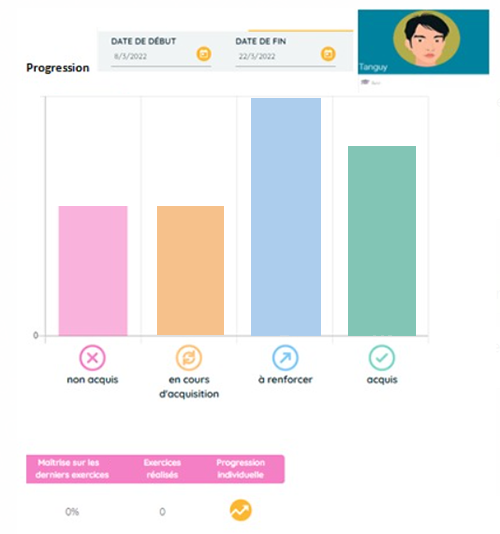
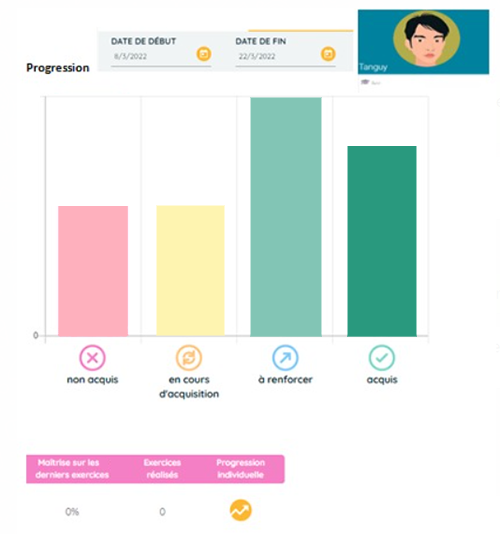
maj academy

diff --git a/templates/account/detail_student_all_views.html b/templates/account/detail_student_all_views.html
@@ -9,22 +9,12 @@
     <script>
         require(['script/ajax-group']);
     </script>
-
- 
-
 {% endblock %}
 
- 
-
-
-
-
- 
-                 
+            
 
 {% block datae %} 
 <style>
-
 .table  > tr {
     min-width:70%
 }
@@ -74,7 +64,8 @@
                     <td> 
                         Durée totale  <span class="pull-right">{{ std.duration|time_done  }}</span> 
                     </td>
-                </tr>  
+                </tr> 
+                {% if not request.user.is_in_academy %} 
                 <tr>
                     <td>
                         Tâches à rendre <span class="pull-right">{{ std.nb  }}</span>
@@ -88,7 +79,8 @@
                     <td> 
                         Tâches remises en retard <span class="pull-right">{% if std.late  > 0 %} <span class="label label-warning">{{ std.late  }}</span>{% else %}{{ std.late }}{% endif %}</span> 
                     </td>
-                </tr>    
+                </tr> 
+                {% endif %}   
             </tbody>
         </table>
     </div>
@@ -100,6 +92,43 @@
         <a href="#groups{{ forloop.counter }}" data-toggle="collapse"  class="bilan_title"><i class="fa fa-angle-right"></i> <i class="fa fa-angle-down"></i>  Bilans de {{ group.subject.name }}</a>
         <div id="groups{{ forloop.counter }}" class="collapse bilan_details">
         {% endif %}
+
+            {% if request.user.is_in_academy %}
+
+            <div class="row bilan_div">
+ 
+                <div class="col-sm-12 col-md-7" align="center">
+                    <h3>Suivi des attendus</h3>
+                    <input id="scoreswRadar" value="{{scoreswRadar}}" type="hidden" /> 
+                    <input id="waitingsRadar" value="{{waitingsRadar}}" type="hidden" /> 
+                    <canvas id="marksChart" width="600" height="300"></canvas>
+                </div>
+                <div class="col-sm-12 col-md-5" align="center">
+                    <h3>Derniers résultats {{ datebar }}</h3>
+                    <input id="scoresbarSet" value="{{ score_str }}" type="hidden" />
+                    <input id="datebarSet" value="{{ datebar }}" type="hidden" />
+                    <canvas id="barChart" width="600" height="400"></canvas>
+                </div> 
+              
+            </div> 
+
+
+            <!-- bilan des parents par mois -->
+            <div class="row bilan_div">
+                <div class="col-sm-12 col-md-12">
+                    <span class='thin' style="font-size:20px">Bilans mensuels</span><hr/>
+                    <div class="row">
+                    {% for month in months %}  
+                        <div class="col-sm-4 col-md-2">
+                            <a href="{% url 'print_monthly_statistiques' month.rg group.id student.user.id %}"> <img src="{% static 'img/pdf.png' %}" width="15px" /> {{ month.name }}</a>
+                        </div>
+                    {% endfor %}  
+                    </div>
+                </div>
+            </div> 
+            {% endif %}
+
+
             <div class="row bilan_div">
                 <div class="col-sm-12 col-md-12">
                     <a href="#skills{{ forloop.counter }}" data-toggle="collapse"  class="bilan_title"><i class="fa fa-angle-right"></i> <i class="fa fa-angle-down"></i>  Bilan des compétences</a>
@@ -257,21 +286,7 @@
                 </div>
             </div>
 
-            {% if request.user.is_superuser %}
-            <!-- bilan des parents par mois -->
-            <div class="row bilan_div">
-                <div class="col-sm-12 col-md-12">
-                    <span class='thin' style="font-size:20px">Bilans mensuels</span><hr/>
-                    <div class="row">
-                    {% for month in months %}  
-                        <div class="col-sm-4 col-md-2">
-                            <a href="{% url 'print_monthly_statistiques' month.rg group.id student.user.id %}"> <img src="{% static 'img/pdf.png' %}" width="15px" /> {{ month.name }}</a>
-                        </div>
-                    {% endfor %}  
-                    </div>
-                </div>
-            </div> 
-            {% endif %}
+
 
 
 

diff --git a/staticfiles/js/script/ajax-group.js b/staticfiles/js/script/ajax-group.js
@@ -1,4 +1,4 @@
-define(['jquery','bootstrap_popover', 'bootstrap' ], function ($) {
+define(['jquery','bootstrap_popover', 'bootstrap','chart'], function ($) {
     $(document).ready(function () {
         console.log("chargement JS ajax-group.js OK");
 
@@ -349,6 +349,90 @@ define(['jquery','bootstrap_popover', 'bootstrap' ], function ($) {
                     }
                 });
  
+        // *************************************************************
+        // chart.js
+        // *************************************************************
+        var marksCanvas   = document.getElementById("marksChart");
+        var scoreswRadar      = document.getElementById("scoreswRadar").value;
+        var waitingsRadar      = document.getElementById("waitingsRadar").value;
+
+        var liste_score_w_n = [] ; 
+        liste_score_w = scoreswRadar.split("-");
+        liste_score_w.forEach( (item) =>{ 
+            item_int = parseInt(item);
+            if (!isNaN(item_int))
+                {liste_score_w_n.push(item_int/10);}
+        });
+
+
+        var marksData = {
+            labels: waitingsRadar.split("-") ,
+            datasets: [{
+                label : "Attendus",
+                backgroundColor: "rgb(245,127,197,0.6)",
+                data:  liste_score_w_n,
+            }]
+        };
+
+        var radarChart = new Chart(marksCanvas, {
+          type: 'radar',
+          data: marksData
+        });
+
+
+
+
+
+        var barChart = document.getElementById("barChart");
+        var scoresbarSet = document.getElementById("scoresbarSet").value;
+        var datebar      = document.getElementById("datebarSet").value;
+
+        var liste_score_b_n = [] ; 
+        liste_score_b = scoresbarSet.split("-");
+        liste_score_b.forEach( (item) =>{ 
+            item_int = parseInt(item);
+            if (!isNaN(item_int))
+                {liste_score_b_n.push(item_int);}
+        });
+
+ 
+
+        var marksDatas = {
+            labels: ["Non acquis", "En cours", "A renforcer", "Acquis"],
+            datasets: [{
+                label : datebar ,
+                backgroundColor: ["rgb(254,176,169,0.6)", "rgb(254,244,176,0.6)","rgb(130,197,181,0.6)","rgb(41,153,126,0.6)"],
+                data: liste_score_b_n,
+                    }] ,           
+                options: {
+                    responsive: true,
+                    label: { display: false }, 
+                    title: {display: false},
+                    scales: {
+                        y: {
+                            beginAtZero: true
+                        }
+                    },
+            },
+
+        };
+
+        var radarChart = new Chart(barChart, {
+          type: 'bar',
+          data: marksDatas
+        });
+
+        // *************************************************************
+        // *************************************************************
+        // *************************************************************
+
+
+
+
+
+
+
+
 
 
 

diff --git a/templates/dashboard_parent.html b/templates/dashboard_parent.html
@@ -9,9 +9,14 @@
     <div class="col-md-12 col-lg-12 col-xs-12">
         {%  for student in students %} 
             <div  class="box box-widget widget-user-2" 
-                  style="background-color: #00819F"  > 
+                  style="background-color: #af9cd4"  > 
                   <!-- Add the bg color to the header using any of the bg-* classes -->
                 <div class="handler widget-user-header">
+                    {% if student.user.avatar %}
+                    <div style="position: absolute; top : 10px; text-align: center;"> 
+                        <img src="{{ student.user.avatar.url }}" class="avatar"  />
+                    </div>
+                    {% endif %}
                     <div class="box_title_vignette"> 
                         <span style="color:#FFF;" class="thin"> {{ student.user.first_name  }} </span>
                     </div>
@@ -19,15 +24,17 @@
                 <div class="box-footer">
                     <div class="row extend">                              
                         <div class="col-lg-6 col-xs-6">
-                            <a  href="{% url 'detail_student_all_views' student.user.id  %}"  class="edit" ><i class="fa fa-mortar-board"></i> <span class="label_icon">Suivi</span>
+                            <a  href="{% url 'detail_student_all_views' student.user.id  %}"  class="edit" ><i class="fa fa-mortar-board"></i> Suivi
                             </a>   
                         </div>
+                        {% if not request.user.is_in_academy %}
                         <div class="col-lg-6 col-xs-6">
                             <a  href="{% url 'my_child_tasks' student.user.id %}"  {% if not student.is_task_exists %}class="edit"{% endif %}  >
                                 {% if not student.is_task_exists %}<i class="fa fa-calendar"></i>{% else %}<i class="fa fa-calendar-check"></i>{% endif %}
-                                <span class="label_icon">Tâches</span>
+                                Tâches
                             </a>  
                         </div>
+                        {% endif %}
                     </div>
                 </div>
             </div>  

diff --git a/staticfiles/js/common4.js b/staticfiles/js/common4.js
@@ -31,7 +31,7 @@ requirejs.config({
         config_toggle: "script/config-toggle",
         config_datatable: "script/config-datatable", 
         config_colorpicker: "script/config-colorpicker",       
-        chart:["https://cdnjs.cloudflare.com/ajax/libs/Chart.js/2.6.0/Chart.min","lib/chart.min"],   
+        chart:["lib/chart.min"],   
         popper: 'https://cdnjs.cloudflare.com/ajax/libs/popper.js/1.12.9/umd/popper.min',
         fonctions_jquery: "script/fonctions-jquery",
         fonctions: "script/fonctions",
@@ -93,7 +93,7 @@ requirejs.config({
     }
 });
 
-require(['jquery', 'bootstrap',  'uploader', 'uploader', 'bootstrap_popover',   'bcPicker', 'ckeditor_jquery', 'ckeditor', 'ckeditor_init', 'mathjax',  'datatables', 'datatables_bootstrap', 'config_select2', 'config_datepicker', 'config_toggle',  'config_colorpicker', 'fonctions_jquery', 'fonctions',   'config_datatable', 'multiselect', 'ui',]);
+require(['jquery', 'bootstrap',  'uploader', 'uploader', 'bootstrap_popover',  'chart' ,  'bcPicker', 'ckeditor_jquery', 'ckeditor', 'ckeditor_init', 'mathjax',  'datatables', 'datatables_bootstrap', 'config_select2', 'config_datepicker', 'config_toggle',  'config_colorpicker', 'fonctions_jquery', 'fonctions',   'config_datatable', 'multiselect', 'ui',]);
 
 // suppression de admin dans le chargement  : 'admin', 
-//  ,'slimscroll', 'chart'
+//  ,'slimscroll'

diff --git a/account/views.py b/account/views.py
@@ -4,12 +4,13 @@
 #################################
 import html
 import random
+import json
 import re
 from django.conf import settings # récupération de variables globales du settings.py
 from statistics import median, StatisticsError
 import csv
 import pytz
-from datetime import datetime 
+from datetime import datetime , timedelta
 from django.contrib import messages
 from django.contrib.auth import login, authenticate
 from django.contrib.auth import update_session_auth_hash
@@ -891,7 +892,6 @@ def detail_student_parcours(request, id,idp):
 
     return render(request, 'account/detail_student_parcours.html', context)
 
-
 #@user_can_read_details
 def detail_student_all_views(request, id):
 
@@ -1007,8 +1007,36 @@ def detail_student_all_views(request, id):
             themes.update(student.level.themes.filter(subject=g.subject)) 
 
 
+        scoreswRadar  = ""
+        waitingsRadar = ""
+        i = 1
+        if request.user.school_id == 50 and request.user.is_in_academy  :
+            sep = "-"
+            for waiting in group.waitings() :
+                if i == len(group.waitings()) :
+                    sep = ""
+                waitingsRadar += waiting.name+sep
+                score = 0
+                if student.result_waitings(waiting) : score = student.result_waitings(waiting)
+                scoreswRadar += str(score)+sep
+                i+=1
+            
+
+
+            today   = time_zone_user(request.user) 
+            date_start = today - timedelta(days=7)
+            aptitude = request.user.school.aptitude.last()
+            student_answers = Studentanswer.objects.filter( student__user = request.user , date__gte = date_start  )
+            st0 = student_answers.filter(point__lt= aptitude.low).count()
+            st1 = student_answers.filter(point__lt= aptitude.medium).count()
+            st2 = student_answers.filter(point__lt= aptitude.up).count()
+            st3 = student_answers.filter(point__gte= aptitude.up).count()
+            score_str = str(st0)+"-"+str(st1)+"-"+str(st2) +"-"+str(st3)
+
+            datebar = "du "+str(date_start.strftime("%d/%m/%Y"))+" au "+str(today.strftime("%d/%m/%Y"))
+
         context = {'exercises': exercises, 'knowledges': knowledges,  'parcourses': parcourses, 'std': std, 'themes': themes, 'communications' : [], 'group' : group ,  'today' : today  , 'teacher' : None , 'groups' : groups ,
-                   'student': student, 'parcours': None, 'sprev_id': None, 'snext_id': None,'months':months }
+                   'student': student, 'parcours': None, 'sprev_id': None, 'snext_id': None,'months':months , 'waitingsRadar' : waitingsRadar , 'scoreswRadar' : scoreswRadar  , 'score_str' : score_str  , 'datebar' : datebar  }
 
 
     return render(request, 'account/detail_student_all_views.html', context)

diff --git a/group/views.py b/group/views.py
@@ -1631,7 +1631,7 @@ def print_monthly_statistiques(request, month_id, group_id,student_id):
     for student in students :
         #logo = Image('D:/uwamp/www/sacado/static/img/sacadoA1.png')
         logo = Image('https://sacado.xyz/static/img/sacadoA1.png')
-        logo_tab = [[logo, "SACADO \nBilan des acquisitions" ]]
+        logo_tab = [[logo, "SACADO Académie\nBilan des acquisitions" ]]
         logo_tab_tab = Table(logo_tab, hAlign='LEFT', colWidths=[0.7*inch,5*inch])
         logo_tab_tab.setStyle(TableStyle([ ('TEXTCOLOR', (0,0), (-1,0), colors.Color(0,0.5,0.62))]))
         elements.append(logo_tab_tab)
@@ -1654,8 +1654,6 @@ def print_monthly_statistiques(request, month_id, group_id,student_id):
         date_stop = date(this_year,month_id,months[month_id-1])
 
         studentanswers = student.answers.filter(date__lte = date_stop , date__gte= date_start)
-
-        print(studentanswers)
 
         studentanswer_ids = studentanswers.values_list("id",flat=True).distinct() 
         nb_exo = studentanswer_ids.count() # Nombre d'exercices traités
@@ -1745,11 +1743,9 @@ def print_monthly_statistiques(request, month_id, group_id,student_id):
         #### Gestion des labels à afficher
         ##########################################################################
         labels = [str(student.user.last_name)+" "+str(student.user.first_name), "Classe de "+str(student.level)+", Mois :"+str(month_id)+"/"+str(this_year),"Temps de connexion : "+convert_seconds_in_time(duration), "Score moyen : "+str(average_score)+"%, score médian : "+str(median)+"%" , \
-                 "Exercices SACADO proposés : " +str(nb_p) , "dont "+str(nb_exo)+" étudiés "+complt+", soit un taux d'étude de "+str(p_e)+"%",  \
-                 "Tâches demandées : "+str(t_r),  "Remises en temps : "+str(done)+",  remises en retard : "+str(late)+", non remises : "+str(no_done),\
-                 "Bilan des compétences ",]
+                 "Exercices SACADO proposés : " +str(nb_p) , "dont "+str(nb_exo)+" étudiés "+complt+", soit un taux d'étude de "+str(p_e)+"%", "Bilan des compétences "]
 
-        spacers , titles,subtitles = [1,3,5,7] ,[0],[4,6,8]
+        spacers , titles,subtitles = [1,3,5] ,[0],[6]
 
         i = 0
         for label in labels :

diff --git a/account/models.py b/account/models.py
@@ -191,6 +191,25 @@ class User(AbstractUser):
         return group_string
 
 
+    @property
+    def is_in_academy(self):
+        is_sacado = False
+        today = time_zone_user(self) 
+
+        if self.school_id == 50 :
+            if self.is_parent  :
+                adhesion = self.adhesions.last()
+                if today > adhesion.date_start and  today < adhesion.date_end :
+                    is_sacado = True
+                    
+            elif self.is_student :
+                parent   = self.student.students_parent.first()
+                adhesion = parent.adhesions.last()
+                if today > adhesion.date_start and  today < adhesion.date_end   :
+                    is_sacado = True 
+
+        return is_sacado 
+
 
 
 class Adhesion(models.Model):
@@ -607,7 +626,6 @@ class Student(ModelWithCode):
         return data
 
 
- 
 class Teacher(models.Model):
     """
     Modèle représentant un enseignant.
@@ -700,9 +718,6 @@ class Teacher(models.Model):
             nb = True
         return nb
         
-
-
-
 
 class Resultknowledge(models.Model):
     student = models.ForeignKey(Student, related_name="results_k", default="", on_delete=models.CASCADE, editable=False)
